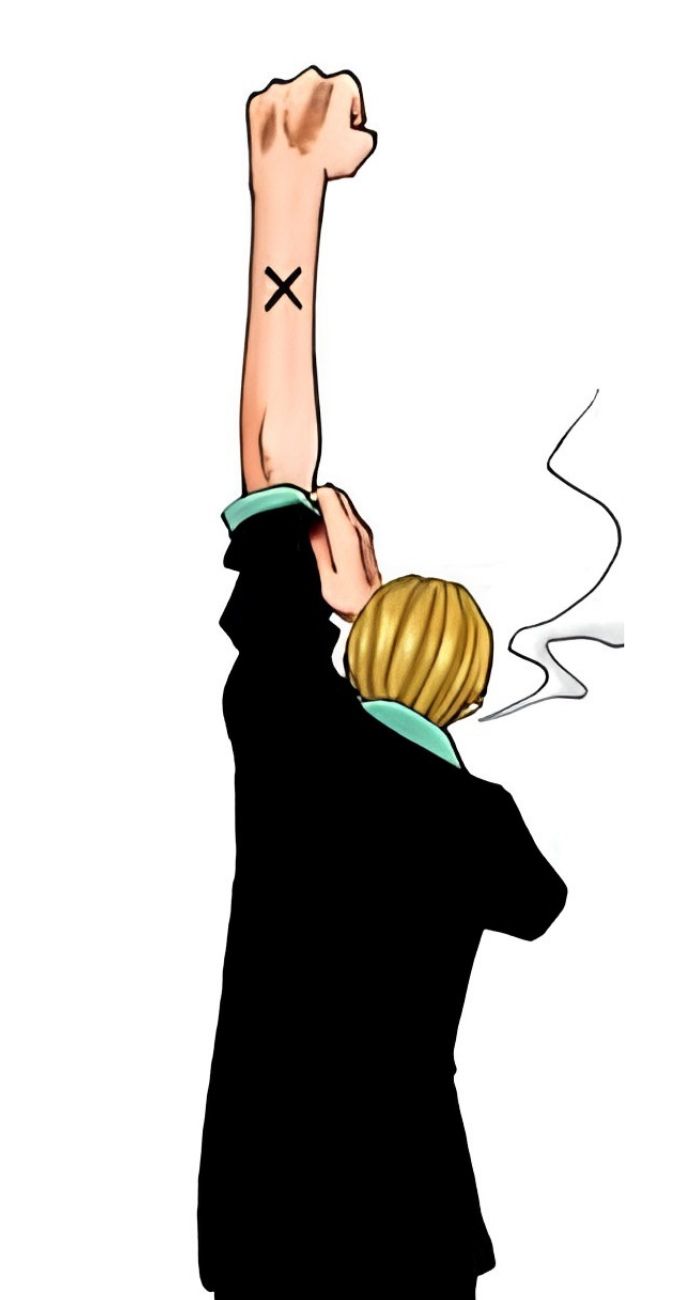
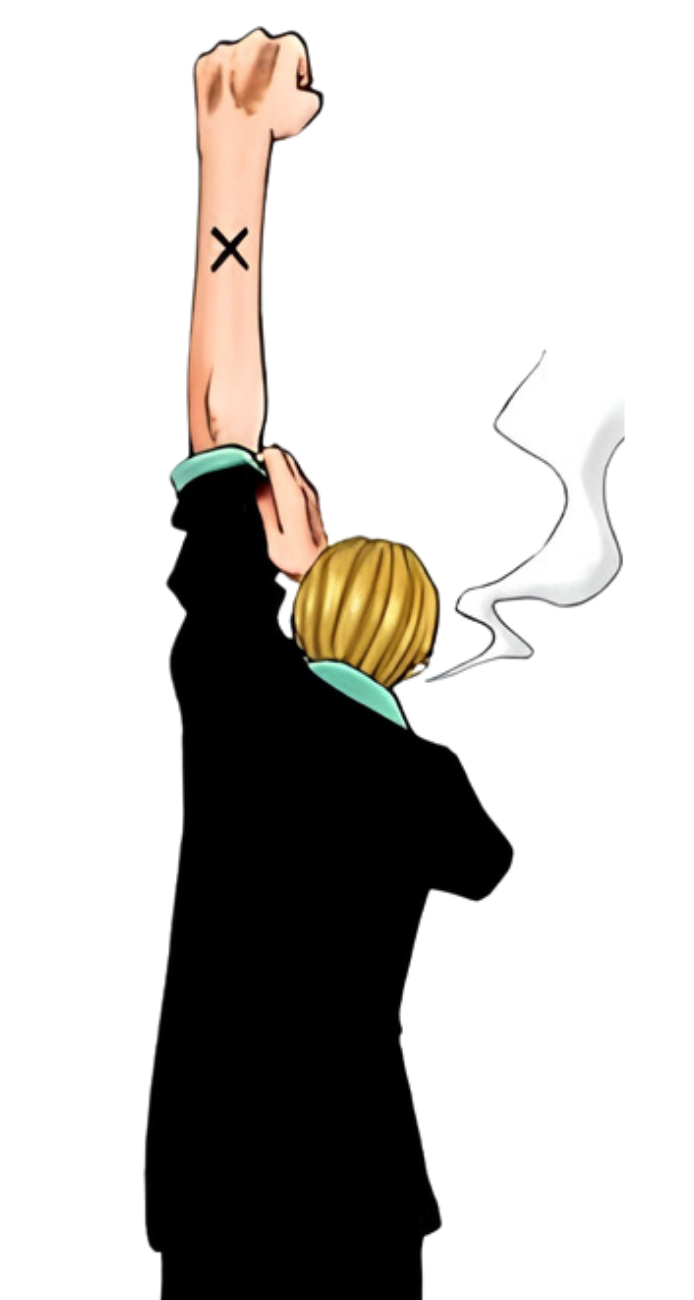
Update layout dimensions and replace gutter images with HD versions

Changed region(s): [[0.1816, 0.0, 0.9078, 1.0], [0.7262, 0.2769, 0.7867, 0.3077], [0.696, 0.3077, 0.7262, 0.3385]]

diff --git a/src/components/Layout.jsx b/src/components/Layout.jsx
@@ -1,7 +1,19 @@
-import { memo } from 'react';
+import { memo, useEffect, useState } from 'react';
 import TopGutter from './TopGutter';
 
 const Layout = memo(({ children }) => {
+  const [isZoomed, setIsZoomed] = useState(false);
+
+  useEffect(() => {
+    const checkZoom = () => {
+      const zoomLevel = window.outerWidth / window.innerWidth;
+      setIsZoomed(zoomLevel > 1.1);
+    };
+
+    checkZoom();
+    window.addEventListener('resize', checkZoom);
+    return () => window.removeEventListener('resize', checkZoom);
+  }, []);
   return (
     <div 
       className="min-h-screen transition-all duration-300 relative"
@@ -14,31 +26,36 @@ const Layout = memo(({ children }) => {
         backgroundSize: 'cover'
       }}
     >
-      {/* Fixed Side Gutters - ANN Style */}
-      <div className="fixed left-0 top-0 bottom-0 min-w-[180px] z-20 hidden lg:block pointer-events-none">
+      {/* Left Gutter */}
+      <div className="fixed left-0 bottom-0 w-[310px] h-[900px] z-0 hidden lg:block pointer-events-none">
         <div 
           className="w-full h-full bg-cover bg-center"
           style={{ 
             backgroundImage: "url('/left-gutter.png')",
             backgroundRepeat: 'no-repeat',
-            backgroundPosition: 'center top'
+            backgroundPosition: 'center bottom',
+            mixBlendMode: 'multiply',
+            backgroundSize: 'contain'
           }}
         ></div>
       </div>
 
-      <div className="fixed right-0 top-0 bottom-0 min-w-[180px] z-20 hidden lg:block pointer-events-none">
+      {/* Right Gutter */}
+      <div className="fixed right-0 bottom-0 w-[310px] h-[900px] z-0 hidden lg:block pointer-events-none">
         <div 
           className="w-full h-full bg-cover bg-center"
           style={{ 
             backgroundImage: "url('/right-gutter.png')",
             backgroundRepeat: 'no-repeat',
-            backgroundPosition: 'center top'
+            backgroundPosition: 'center bottom',
+            mixBlendMode: 'multiply',
+            backgroundSize: 'contain'
           }}
         ></div>
       </div>
 
-      {/* Canvas - ANN Style - Fixed width container */}
-      <div className="mx-auto relative z-10" style={{ width: '768px', maxWidth: '721px' }}>
+      {/* Canvas */}
+      <div id="canvas" className="mx-auto max-w-[1300px] relative z-10">
         {/* Top Gutter */}
         <TopGutter />
         

diff --git a/src/components/Navbar.jsx b/src/components/Navbar.jsx
@@ -53,8 +53,8 @@ const Navbar = () => {
   ];
 
   return (
-    <nav className="bg-white dark:bg-gray-800 text-gray-900 dark:text-white shadow-lg border-b border-gray-200 dark:border-gray-700 transition-all duration-300">
-      <div className="max-w-7xl mx-auto px-4 sm:px-6 lg:px-8">
+    <nav className="bg-white dark:bg-gray-800 text-gray-900 dark:text-white shadow-lg border-b border-gray-200 dark:border-gray-700 transition-all duration-300 relative z-50">
+      <div className="max-w-[1300px] mx-auto px-4 sm:px-6 lg:px-8">
         <div className="flex items-center justify-between h-16">
           <div className="flex items-center space-x-4 sm:space-x-8">
             <Link to="/" className="text-xl sm:text-2xl font-bold text-gray-900 dark:text-white hover:scale-105 transition-transform duration-300">
